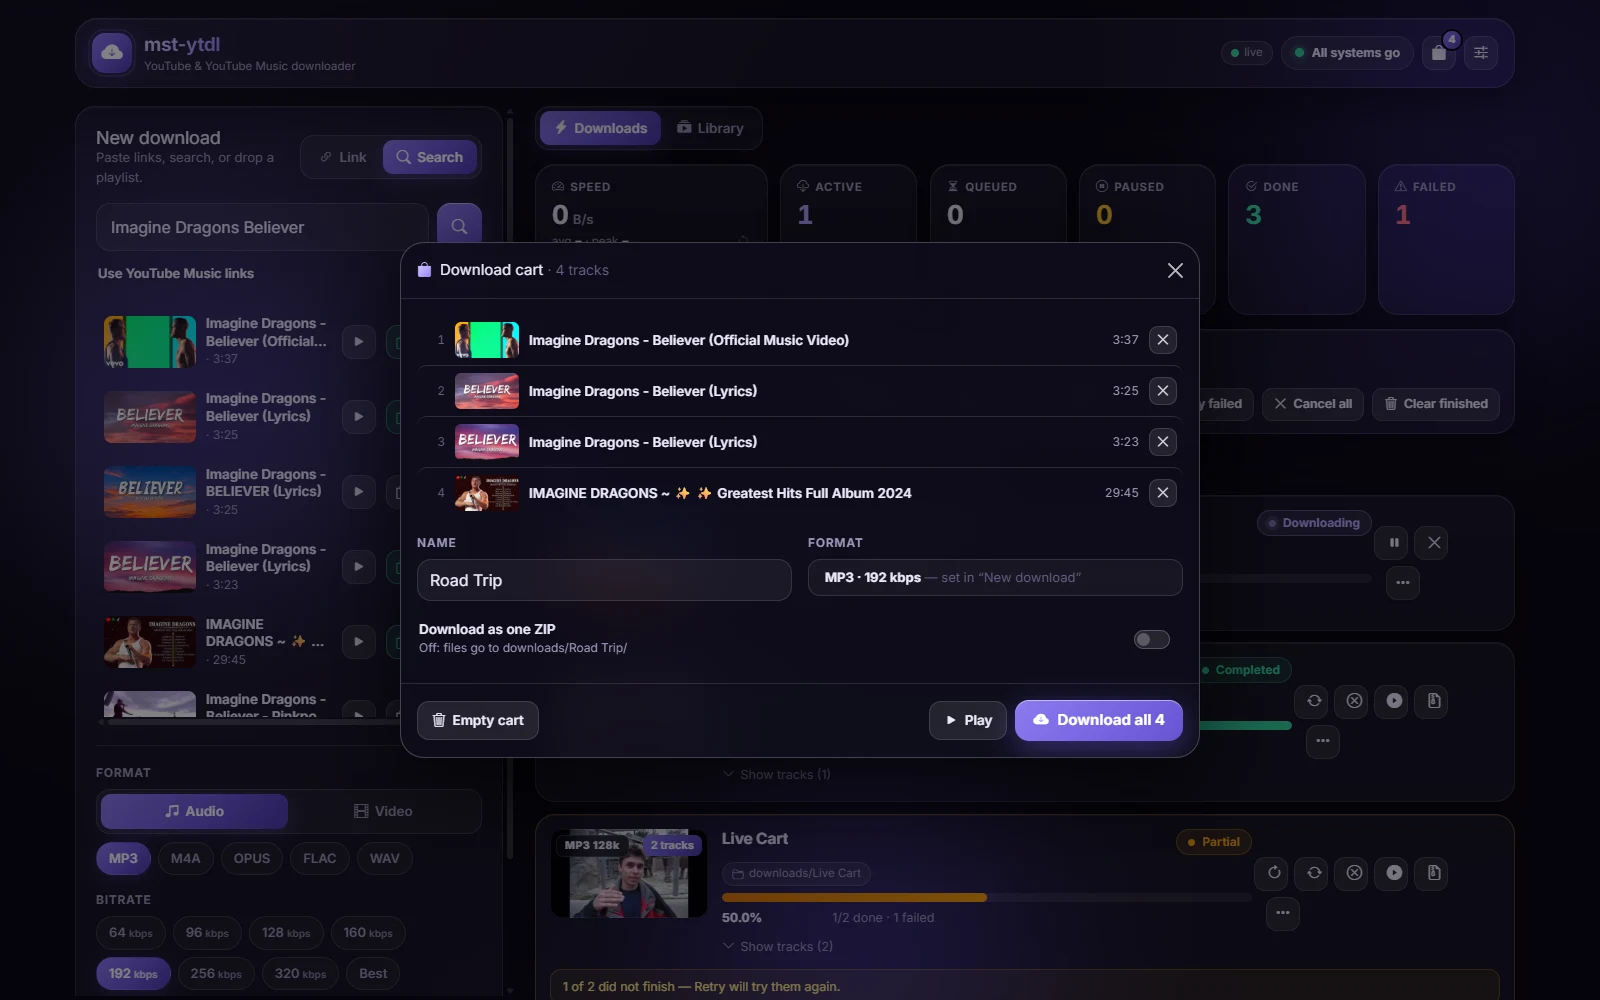
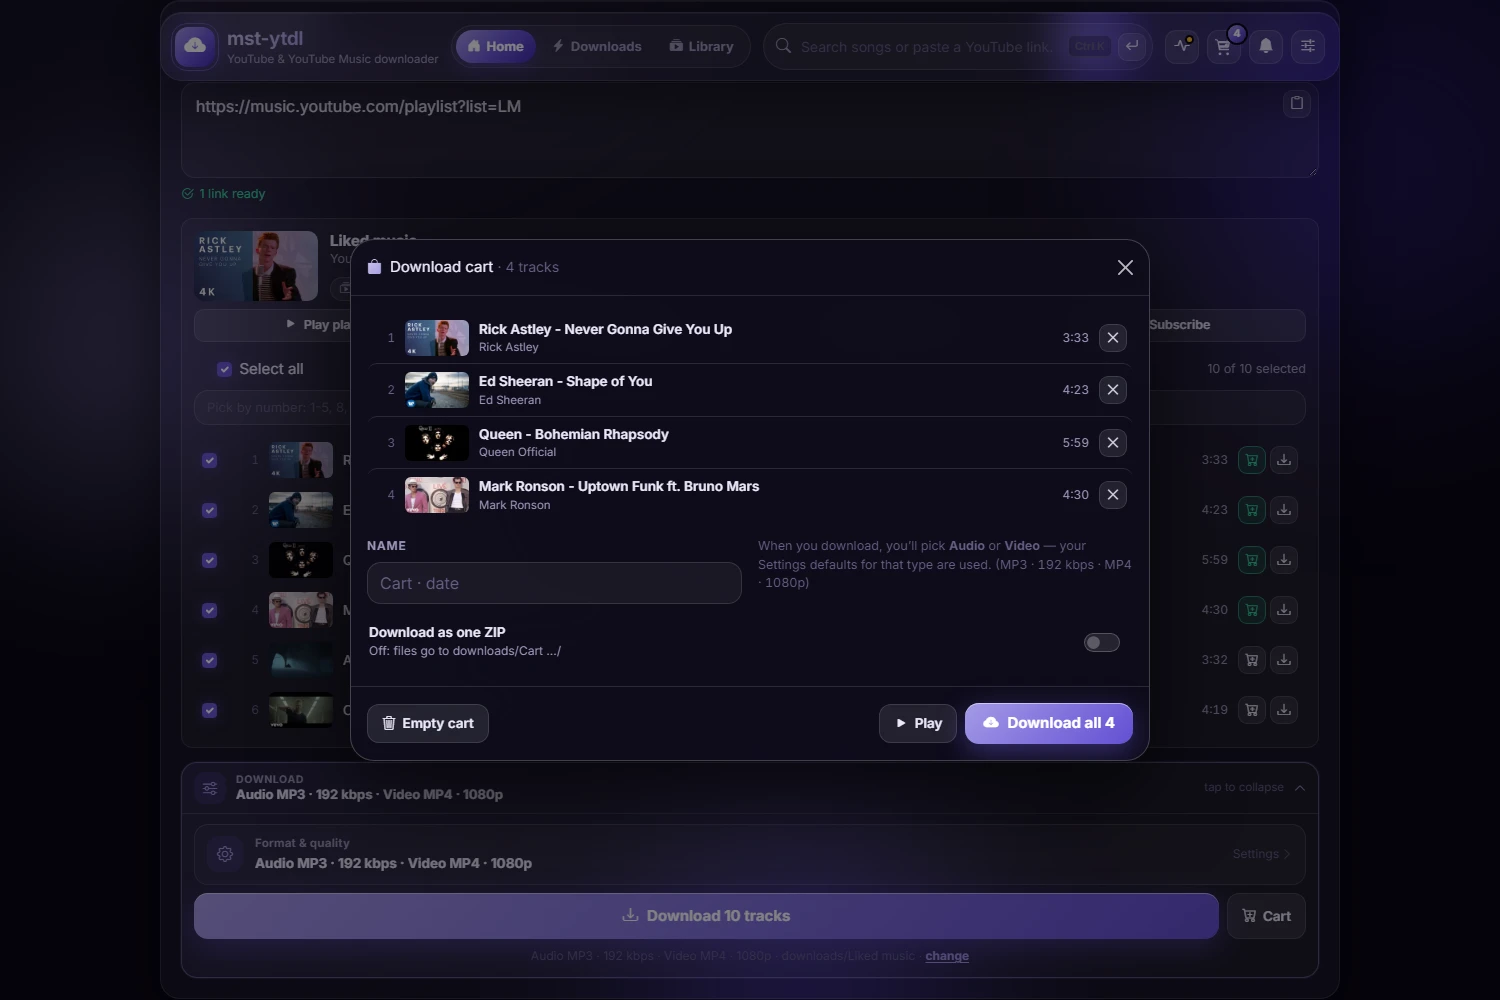
Docs: new screenshots, Mine / sign-in sections; fix broken link preview
- README: home hero, Mine (playlists, home feed, per-track buttons) and Sign in with Google (desktop wizard + phone) screenshots; refreshed cart shot; features row; test counts.
- AGENTS: extension/ mount, per-track buttons in composer.js, pitfall 38.
- Fix: two leftover renderQuality() calls in composer.js threw "renderQuality is not defined" and broke every link / playlist preview (including opening a playlist from Mine).
- Tests/lint: search-limit test now uses SEARCH_POOL_CAP; import order fixed by ruff.

diff --git a/web/static/js/composer.js b/web/static/js/composer.js
@@ -184,7 +184,7 @@ function clearPreview() {
   $("#preview").innerHTML = "";
   $("#amb-banner").hidden = true;
   renderUrlChips();
-  renderQuality(); updateGo();
+  renderVideoPrefs(); updateGo();
 }
 
 async function analyze(url) {
@@ -201,7 +201,7 @@ async function analyze(url) {
     S.selection = new Set(info.entries.filter((e) => e.available).map((e) => e.index));
     renderUrlChips();
     renderPreview();
-    renderQuality();
+    renderVideoPrefs();
     updateGo();
   } catch (e) {
     if (ticket !== S.analyzing) return;

diff --git a/tests/test_metadata.py b/tests/test_metadata.py
@@ -8,6 +8,7 @@ import pytest
 
 from models import JobKind
 from models import PlaylistMode as PM
+from models.paging import SEARCH_POOL_CAP
 from modules.ytdlp_util import UrlError, parse_url
 from services import InvalidRequestError
 from services import metadata_service as svc
@@ -244,7 +245,7 @@ class TestSearch:
         monkeypatch.setattr(svc, "_extract", lambda url, flat: self.RAW)
         assert svc.search("x y", music=True)[0].url.startswith("https://music.youtube.com/watch?v=")
 
-    @pytest.mark.parametrize("limit,asked", [(0, 1), (-5, 1), (10, 10), (999, 25)])
+    @pytest.mark.parametrize("limit,asked", [(0, 1), (-5, 1), (10, 10), (999, SEARCH_POOL_CAP)])
     def test_limit_is_clamped(self, monkeypatch, limit, asked):
         seen = {}
         monkeypatch.setattr(svc, "_extract", lambda url, flat: seen.update(url=url) or {"entries": []})

diff --git a/services/__init__.py b/services/__init__.py
@@ -13,7 +13,6 @@ from services.cookies import CookieService, cookie_service
 from services.delivery import DeliveryService, delivery_service
 from services.dispatch import Dispatcher, get_dispatcher, set_dispatcher
 from services.downloader import DownloadRunner, download_runner
-from services.explore import ExploreService, explore_service
 from services.errors import (
     ConflictError,
     ForbiddenError,
@@ -24,6 +23,7 @@ from services.errors import (
     UnavailableError,
     UpstreamError,
 )
+from services.explore import ExploreService, explore_service
 from services.files import FileEntry, FileManagerService, file_manager
 from services.library import LibraryEntry, LibraryService, library_service
 from services.lyrics import LyricsService, lyrics_service

diff --git a/models/__init__.py b/models/__init__.py
@@ -4,8 +4,6 @@ Call sites always do ``from models import DownloadJob``, never module paths.
 """
 
 from models.account import AccountFeed, AccountPlaylist, AccountPlaylists
-from models.explore import ExploreFeed
-from models.paging import SearchResults
 from models.cookies import CookieStatus, CookieTestResult
 from models.download import (
     CartEntry,
@@ -38,7 +36,9 @@ from models.enums import (
     PlaylistMode,
     ResolveState,
 )
+from models.explore import ExploreFeed
 from models.lyrics import LyricLine, Lyrics
+from models.paging import SearchResults
 from models.stream import (
     QualityOption,
     StreamFormat,

diff --git a/services/explore.py b/services/explore.py
@@ -14,7 +14,7 @@ Results are paginated (``page`` / ``page_size``, max 10 pages) from a cached poo
 
 from __future__ import annotations
 
-from models import ExploreFeed, EntryInfo
+from models import EntryInfo, ExploreFeed
 from models.paging import SEARCH_DEFAULT_PAGE_SIZE, SEARCH_MAX_PAGES, page_window
 from modules import get_logger
 from services.account import account_service

diff --git a/tests/test_logging_files.py b/tests/test_logging_files.py
@@ -7,7 +7,14 @@ import uuid
 
 import pytest
 
-from modules.logger import QuietHealthAccessFilter, attach_server_logs, get_logger, log_dir, quiet_health_access, reset_file_logging
+from modules.logger import (
+    QuietHealthAccessFilter,
+    attach_server_logs,
+    get_logger,
+    log_dir,
+    quiet_health_access,
+    reset_file_logging,
+)
 
 
 @pytest.fixture

diff --git a/README.md b/README.md
@@ -15,7 +15,7 @@ Paste a video, a song, an album or a whole playlist → pick MP3 / MP4 (and more
 
 The top bar (omnibar, status, music cart) and the player stay on every page. Submitting a download jumps to `/download`; opening a folder jumps to `/library`. Download format / quality / options (Settings → **Download defaults**, localStorage `mst.prefs`), theme colour / brightness and other UI prefs (motion, compact queue, auto-save, confirm-delete, Music links, explore default, lyrics language, **results layout**: list / cards / posters / stack / cinema / mosaic) live in this browser only (`localStorage` `mst.theme` / `mst.ui`) — never Redis. On desktop the top bar and page content share one width.
 
-![Downloads: search, format picker and the live queue](docs/screenshots/downloads.webp)
+![Home: Explore on top, then Find & download (Link / Search / Mine)](docs/screenshots/home.webp)
 
 ```
 downloads/
@@ -40,6 +40,7 @@ downloads/
 | Extras | Cover art + tags embedded, subtitles (download + embed), **SponsorBlock cut** (removes sponsor / self-promo / interaction segments, off by default), speed cap, skip files that already exist (or *overwrite*), playlist track picker (`1-5, 8, 12-`), custom folder name, ZIP download of a playlist, built-in player + library browser |
 | Resilience | Auto-retry for transient errors (not for private/removed videos), crash recovery (dead workers' downloads become *Paused*), health pill (Redis / worker / ffmpeg / **JS runtime** — missing Node → degraded), optional `DL_WEBHOOK_URL` (ntfy) on job finish |
 | Cart | **Download cart**: collect songs from search results, playlist previews and pasted links, then download them in one go (one folder, or one ZIP) |
+| Your account | **Mine** tab: your playlists (Liked music, Liked videos, Watch later, library) and YouTube home feed, with play / shuffle / cart / download on every track; **Sign in with Google** through a browser extension — no cookie files, no Google Cloud credentials — see *Sign in with Google* and *My YouTube* below |
 | Subscriptions | **Follow a channel or playlist**: new uploads are queued automatically (checked every 15 min) with the format you picked when subscribing — see *Subscriptions* below |
 | Admin dashboard | **`/admin`** (username + password): live analytics, every visitor's downloads, visitors & IP blocks, full file manager (hidden folders too), live settings and hard limits, maintenance mode, cache controls, log viewer |
 | Server mode | `SERVER_MODE=true` turns it into a public site: private per-visitor queues, finished files handed to the browser and **deleted after an hour** (**My downloads** + one-shot *Keep longer*), admin-locked library (shared host files — not your deliveries), maintenance banner, limits — see below |
@@ -104,6 +105,14 @@ Statistics are Redis counters kept `SERVER_ANALYTICS_DAYS` (30); visitors (anony
 
 Nobody has to export a cookies file. In the cookies dialog, **Sign in with Google** opens Google's sign-in in a new tab (after login it continues to `https://www.youtube.com/robots.txt`, not the homepage) and shows a one-time code. A small extension (`extension/`, Chrome / Edge / Brave / Firefox) sends that browser's YouTube cookies to your server when the person presses *Connect* and types the code. No Google Cloud project, OAuth client or secret is involved: a web page cannot read another site's cookies, so the extension does the one step the page can't.
 
+<table><tr>
+<td><img src="docs/screenshots/connect-dialog.webp" alt="Sign in with Google: the four-step Connect wizard"></td>
+<td align="center" valign="top"><img src="docs/screenshots/connect-phone.webp" alt="The same dialog on a phone: enter the code on a computer" width="260"></td>
+</tr><tr>
+<td align="center"><sub>Computer: sign in → install → enter the code → close Incognito</sub></td>
+<td align="center"><sub>Phone: hand the code to a signed-in computer</sub></td>
+</tr></table>
+
 **Longer-lasting sessions (recommended):** do this in an **Incognito / private** window. Extensions are off there by default — open `chrome://extensions` (or `edge://extensions`), open this extension's card, and turn on **Allow in Incognito**. Sign in, stay on `youtube.com/robots.txt`, Connect, then **close the Incognito window** so YouTube does not rotate that session while you keep browsing.
 
 - **Phones and tablets** can't run the extension. There the dialog skips the Google tab and tells the person to enter the code on a computer that is signed in to YouTube: the code belongs to the browser that asked for it, so that computer's extension links the phone (using the computer's YouTube account).
@@ -114,7 +123,17 @@ Nobody has to export a cookies file. In the cookies dialog, **Sign in with Googl
 
 ## My YouTube (playlists and home feed)
 
-The **Mine** tab of *New download* reads the signed-in account through your YouTube cookies: *Liked music*, *Liked videos*, *Watch later*, your library playlists, and the home feed YouTube recommends to you. A playlist opens in the normal link flow (pick tracks, play, shuffle, add to cart, download; every track row also has its own play / cart / download buttons); feed rows have the same play / cart / download buttons plus play all, shuffle and download all.
+The **Mine** tab of *New download* reads the signed-in account through your YouTube cookies: *Liked music*, *Liked videos*, *Watch later*, your library playlists, and the home feed YouTube recommends to you. A playlist opens in the normal link flow (pick tracks, play, shuffle, add to cart, download; every track row has its own play (tap the thumbnail or title), cart and download buttons); feed rows have the same buttons, and the list has play all, shuffle and download all.
+
+![Mine: playlists and home feed](docs/screenshots/mine.webp)
+
+<table><tr>
+<td><img src="docs/screenshots/mine-tracks.webp" alt="A playlist opened from Mine: per-track cart and download buttons"></td>
+<td><img src="docs/screenshots/mine-signin.webp" alt="Mine without cookies: a button opens the sign-in dialog"></td>
+</tr><tr>
+<td align="center"><sub>A playlist opens in the link flow, every track has its own buttons</sub></td>
+<td align="center"><sub>Not signed in yet: one button opens the sign-in dialog</sub></td>
+</tr></table>
 
 - **Local mode** uses the server's cookies (yours). **Server mode** uses only the visitor's *own* cookies, never the server's, even with `SERVER_SHARE_SERVER_COOKIES`, and caches per visitor.
 - YouTube Music's own home page is not available to yt-dlp; *Liked music* (opens with YouTube Music links) and the YouTube home feed stand in for it.
@@ -342,8 +361,8 @@ Loaded by `configs/config.py` (real env vars win over `.env`, which wins over de
 ## Tests
 
 ```bash
-node --test "web/tests/*.test.js"   # 28 tests: formatting, speed units, shuffle/queue/quality/window logic
-uv run pytest                 # ~1208 fast tests (fake Redis + scripted yt-dlp), ~70 s
+node --test "web/tests/*.test.js"   # 31 tests: formatting, speed units, shuffle/queue/quality/window logic
+uv run pytest                 # ~1230 fast tests (fake Redis + scripted yt-dlp), ~70 s
 uv run pytest -m live         # real YouTube / yt-dlp / ffmpeg (downloads a few MB, needs internet)
 uv run ruff check .
 ```

diff --git a/AGENTS.md b/AGENTS.md
@@ -169,7 +169,7 @@ Run the consumer with threads (`-k thread`); it works on Windows. `uv run python
 ## §8. Run, containers, tests
 
 - `uv run python main.py worker | api | dev`
-- `compose.yml`: `redis`, `huey`, `app` (no profiles, so `up`/`down` act on all three; `docker compose up -d redis` for dev); `./downloads` is mounted into both, and so is the source code (`api/ configs/ models/ modules/ services/ tasks/ web/ main.py`, read-only): **code change → `docker compose restart app huey`**; `.env` change → `docker compose up -d` (recreates, no build); only dependency / Dockerfile changes need `--build`. Never mount the repo root over `/app` — it would hide the image's Linux venv (`/app/.venv`). `Dockerfile` installs ffmpeg and copies Node 22 from `node:22-slim` (§10.15).
+- `compose.yml`: `redis`, `huey`, `app` (no profiles, so `up`/`down` act on all three; `docker compose up -d redis` for dev); `./downloads` is mounted into both, and so is the source code (`api/ configs/ models/ modules/ services/ tasks/ web/ main.py`, read-only; `app` also mounts `extension/`, which `GET /api/connect/extension.zip` packs — a container created before that mount serves no extension, so `docker compose up -d` once): **code change → `docker compose restart app huey`**; `.env` change → `docker compose up -d` (recreates, no build); only dependency / Dockerfile changes need `--build`. Never mount the repo root over `/app` — it would hide the image's Linux venv (`/app/.venv`). `Dockerfile` installs ffmpeg and copies Node 22 from `node:22-slim` (§10.15).
 - `uv run python main.py hash-password` prints `SERVER_ADMIN_PASSWORD_HASH=…` for `.env`.
 - Tests: `uv run pytest` (fast; `TASK_IMMEDIATE=true` set in `tests/conftest.py`, fake Redis per test, `tests/fakes.py::FakeYDL` scripted yt-dlp) and `uv run pytest -m live` (real network). Lint: `uv run ruff check .`.
 - **Default `pytest` deselects `live`** (`addopts` in `pyproject.toml`).
@@ -203,7 +203,7 @@ One SPA shell (`index.html`) with **path pages** (same HTML; client router swaps
 | `ambient.js` | optional page-wide reactive canvas while the mini player is playing (Settings → Look); pauses/clears when music pauses; hidden during stage; off = normal theme |
 | `queue.js` | stats tiles + sparkline, toolbar (bulk globals are inline buttons ≥768 px and a "Manage…" dropdown below — the same `data-q` handlers bind both), filters, **keyed in-place job/item DOM updates** (no re-render of the list per snapshot) |
 | `connect.js` | "Sign in with Google" panel of the cookies dialog: opens the Google sign-in tab, shows the code, polls `/api/connect/<code>`, fires `cookies-changed` |
-| `composer.js` | link / search / **Mine**, preview, playlist picker, submit; **format / quality / options** in Settings (`mst.prefs`); home uses a collapsed `#composer-rail` (summary bar → expand for Settings + Download / Cart; auto-opens when links are ready); Search results paginated ≤10 pages |
+| `composer.js` | link / search / **Mine** (signed-in playlist cards open in the link flow, the home feed reuses the result rows), preview, playlist picker with **per-track buttons** (`data-e-play` = thumbnail / title / play, `data-e-cart`, `data-e-dl`, handled by `onEntryAction`; play starts that track and the playlist continues, download submits just that URL), submit; **format / quality / options** in Settings (`mst.prefs`); home uses a collapsed `#composer-rail` (summary bar → expand for Settings + Download / Cart; auto-opens when links are ready); Search results paginated ≤10 pages |
 | `library.js` | folder browser, player modal, zip/delete |
 | `deliveries.js` | server mode "Your downloads" on the Library page (`GET /api/deliveries`): Play + Save + "Keep longer" (once), countdown, urgency pulse |
 | `settings.js` | settings modal (admin runtime controls + theme + **user prefs**); no infra System dump; cookies via status menu; health banners personal-mode only |
@@ -286,3 +286,4 @@ Rules: never inject untrusted text with `innerHTML` without `esc()`; a snapshot 
 35. **Subscriptions must never back-fill and never double-queue.** Subscribing seeds `P:SUB_SEEN:<id>` with the current head instead of downloading it (a channel's whole history would otherwise land in the queue). Each id is `SADD`-claimed *before* `submit` (a manual check can race the periodic poll; the per-subscription lock is only an optimisation) and `SREM`-released when the submit is refused. A poll that finds the subscription deleted removes the seen-set it may have recreated (`_patch` refuses to resurrect a deleted record). Playlists are read in full, channels only the newest 15: new playlist entries are usually appended, a channel lists newest first, so the enqueue order is reversed only for channels.
 36. **The webhook is announced per *finish*, not per job.** The dedupe key hashes status + the latest `finished_at`, so concurrent last items and repeated `_after_settle` calls send one POST, while a retry that completes later sends another. It uses stdlib `urllib` (httpx is a dev-only dependency) on a daemon thread; tests monkeypatch `webhook_service._dispatch`.
 37. **YouTube timedtext needs cookies.** A bare `GET` to the subtitle URL from yt-dlp's info dict returns 429 (HTML) without a login jar; with Netscape cookies it returns WEBVTT. Media streaming can work anonymously; `/api/stream/.../subs` sends the active jar, and if the visitor has none falls back to the server jar (public captions only — not account feeds). Convert srt/json3 when vtt is missing or refused.
+38. **A removed function name only fails when it is called.** ES modules parse fine with a call to an undefined function, so after the UI revamp two leftover `renderQuality()` calls in `composer.js` (`analyze` and `clearPreview`) broke every link / playlist preview with "renderQuality is not defined" while `node --check` and the whole test suite stayed green. After renaming or deleting a render helper, `grep` the old name across `web/static/js` and open a preview in the browser (Link → paste a playlist) before committing.
